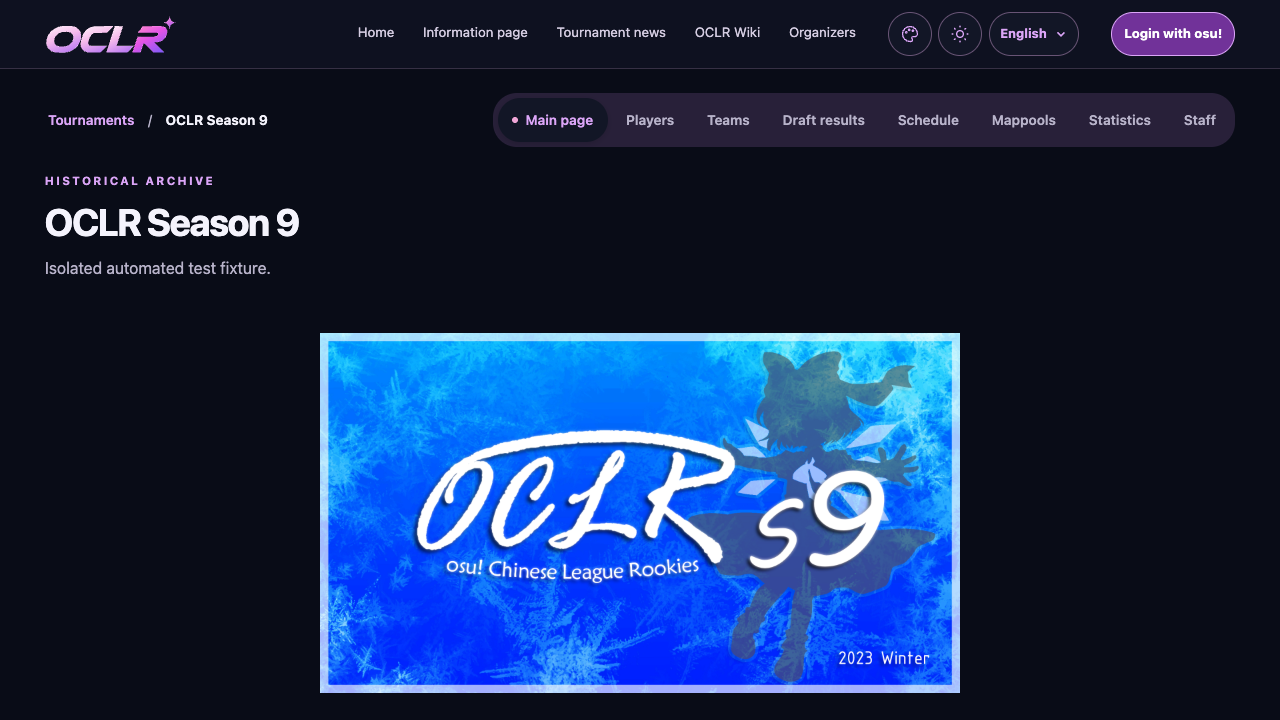
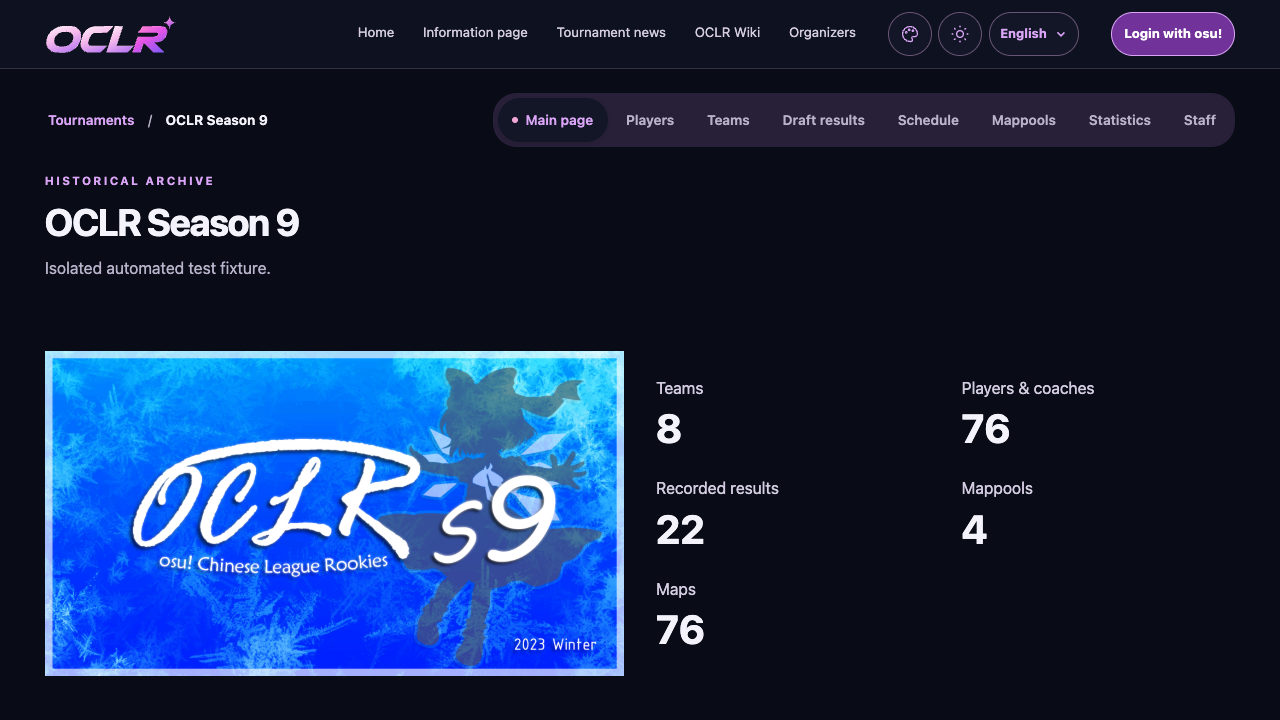
fix(archive): place key visual beside archival counts (#243)

diff --git a/tests/e2e/issue-243.spec.ts b/tests/e2e/issue-243.spec.ts
@@ -6,7 +6,11 @@ import { edition } from "../fixtures/edition";
 import { historicalArchiveSchema } from "../../src/lib/historical-archive";
 test.skip(!process.env.TEST_DATABASE_URL, "Requires isolated PostgreSQL");
 test.afterAll(closeDb);
-test("243 historical presentation", async ({ page, context }, info) => {
+test("243 historical presentation", async ({
+  page,
+  context,
+  isMobile,
+}, info) => {
   test.setTimeout(120000);
   const archives = [7, 8, 9, 10].map((n) =>
     historicalArchiveSchema.parse(
@@ -52,6 +56,33 @@ test("243 historical presentation", async ({ page, context }, info) => {
         const box = await frame.boundingBox();
         expect(box).not.toBeNull();
         heights.push(box!.height);
+        const data = await page
+          .locator(".archive-overview-summary .archive-counts")
+          .boundingBox();
+        expect(data).not.toBeNull();
+        if (isMobile) {
+          expect(data!.y).toBeGreaterThanOrEqual(box!.y + box!.height);
+        } else {
+          expect(data!.x).toBeGreaterThanOrEqual(box!.x + box!.width);
+          expect(Math.abs(data!.width - box!.width)).toBeLessThan(2);
+          expect(data!.y).toBeLessThan(box!.y + box!.height);
+        }
+        await expect(page.locator(".archive-counts dd")).toHaveText([
+          String(archives[season - 7].teams.length),
+          String(archives[season - 7].players.length),
+          String(
+            archives[season - 7].matches.filter(
+              (m) => m.score || m.forfeitWinner !== undefined,
+            ).length,
+          ),
+          String(archives[season - 7].pools.length),
+          String(
+            archives[season - 7].pools.reduce(
+              (total, pool) => total + pool.maps.length,
+              0,
+            ),
+          ),
+        ]);
         expect(box!.height).toBeLessThanOrEqual(
           page.viewportSize()!.height / 2 + 1,
         );
@@ -60,11 +91,17 @@ test("243 historical presentation", async ({ page, context }, info) => {
             () => document.documentElement.scrollWidth <= innerWidth,
           ),
         ).toBe(true);
-        if (appearance === "default")
+        if (appearance === "default") {
           await page.screenshot({
             path: info.outputPath(`s${season}-${theme}.png`),
             fullPage: false,
           });
+          await page
+            .locator(".archive-overview-summary")
+            .screenshot({
+              path: info.outputPath(`s${season}-${theme}-summary.png`),
+            });
+        }
       }
       expect(Math.max(...heights) - Math.min(...heights)).toBeLessThan(2);
     }

diff --git a/src/components/historical-archive.tsx b/src/components/historical-archive.tsx
@@ -345,31 +345,35 @@ export async function HistoricalArchiveView({
     const visual = archiveKeyVisual(a, edition.branding.keyVisual);
     content = (
       <>
-        {visual && (
-          <div className="archive-key-visual">
-            <Image
-              src={visual.src}
-              alt={tr("{value0} key visual", { value0: edition.name })}
-              width={visual.width}
-              height={visual.height}
-              unoptimized
-            />
-          </div>
-        )}
-        <dl className="archive-counts">
-          {[
-            [tr("Teams"), counts.teams],
-            [tr("Players & coaches"), counts.players],
-            [tr("Recorded results"), counts.results],
-            [tr("Mappools"), counts.pools],
-            [tr("Maps"), counts.maps],
-          ].map(([label, count]) => (
-            <div key={label}>
-              <dt>{label}</dt>
-              <dd>{count}</dd>
+        <div
+          className={`archive-overview-summary${visual ? " has-visual" : ""}`}
+        >
+          {visual && (
+            <div className="archive-key-visual">
+              <Image
+                src={visual.src}
+                alt={tr("{value0} key visual", { value0: edition.name })}
+                width={visual.width}
+                height={visual.height}
+                unoptimized
+              />
             </div>
-          ))}
-        </dl>
+          )}
+          <dl className="archive-counts">
+            {[
+              [tr("Teams"), counts.teams],
+              [tr("Players & coaches"), counts.players],
+              [tr("Recorded results"), counts.results],
+              [tr("Mappools"), counts.pools],
+              [tr("Maps"), counts.maps],
+            ].map(([label, count]) => (
+              <div key={label}>
+                <dt>{label}</dt>
+                <dd>{count}</dd>
+              </div>
+            ))}
+          </dl>
+        </div>
         <section
           id="rules"
           className="archive-overview-rules"

diff --git a/src/app/globals.css b/src/app/globals.css
@@ -4992,7 +4992,29 @@ body:has([data-broadcast]) .site-shell {
   white-space: nowrap;
 }
 
-/* Shared historical hero frame: half a desktop viewport, with uncropped artwork. */
+/* Equal-width artwork and archival data columns, with uncropped season art. */
+.archive-overview-summary.has-visual {
+  display: grid;
+  grid-template-columns: minmax(0, 1fr) minmax(0, 1fr);
+  align-items: center;
+  gap: 2rem;
+}
+.archive-overview-summary > * {
+  min-width: 0;
+}
+.archive-overview-summary.has-visual .archive-counts {
+  display: grid;
+  grid-template-columns: repeat(2, minmax(0, 1fr));
+  gap: 1.5rem 2rem;
+}
+.archive-overview-summary.has-visual .archive-counts dt {
+  color: var(--site-secondary-text);
+}
+.archive-overview-summary.has-visual .archive-counts dd {
+  margin-top: 0.25rem;
+  font-size: 2.5rem;
+  line-height: 1.15;
+}
 .archive-key-visual {
   width: 100%;
   height: min(50svh, 30rem);
@@ -5005,8 +5027,13 @@ body:has([data-broadcast]) .site-shell {
   height: 100%;
   min-height: 0;
   object-fit: contain;
+  object-position: left center;
 }
-@media (max-width: 600px) {
+@media (max-width: 760px) {
+  .archive-overview-summary.has-visual {
+    grid-template-columns: minmax(0, 1fr);
+    gap: 1.5rem;
+  }
   .archive-key-visual {
     height: min(40svh, 20rem);
   }

diff --git a/docs/verification/issue-243/README.md b/docs/verification/issue-243/README.md
@@ -1,8 +1,12 @@
 # Historical hero artwork (#243)
 
-S7–S10 share one contained frame: desktop half the small viewport height capped at 30rem; mobile 40svh capped at 20rem. Images retain their full aspect ratio. Existing configured branding wins over source-based defaults. Organizer visual review remains pending.
+S7–S10 share an equal-width desktop split: the uncropped key visual sits on the left, aligned to the left edge, and archival counts fill the right half in a two-column grid. At 760px and below the image and counts stack vertically. The common image frame remains capped at half the small viewport height / 30rem on desktop and 40svh / 20rem on mobile. Existing configured branding wins over source-based defaults. This implements the organizer’s PR #251 layout clarification; visual review remains pending.
 
-## Local verification — 2026-10-25
+## Left/right layout follow-up — 2026-10-25
+
+The organizer requested artwork on the left and archival data on the right in PR #251. The updated screenshots below replace the earlier centered-art proposal. Verified with lint/type checks, production build, four artwork-selection unit tests and two desktop/mobile browser tests (four seasons × two themes × three appearances on each device). Browser assertions check equal desktop column widths, left/right ordering, mobile stacking, exact archive counts, consistent image-frame heights and no horizontal overflow. No new interface text or data changes.
+
+## Initial batch verification — 2026-10-25
 
 - Production build, lint/type checks and i18n extraction passed on the combined verification branch. No new interface copy was introduced.
 - Combined unit/integration run: 848 passed, 1 skipped. The subsequent S10 MP evidence tests passed separately (7 adapter tests).
